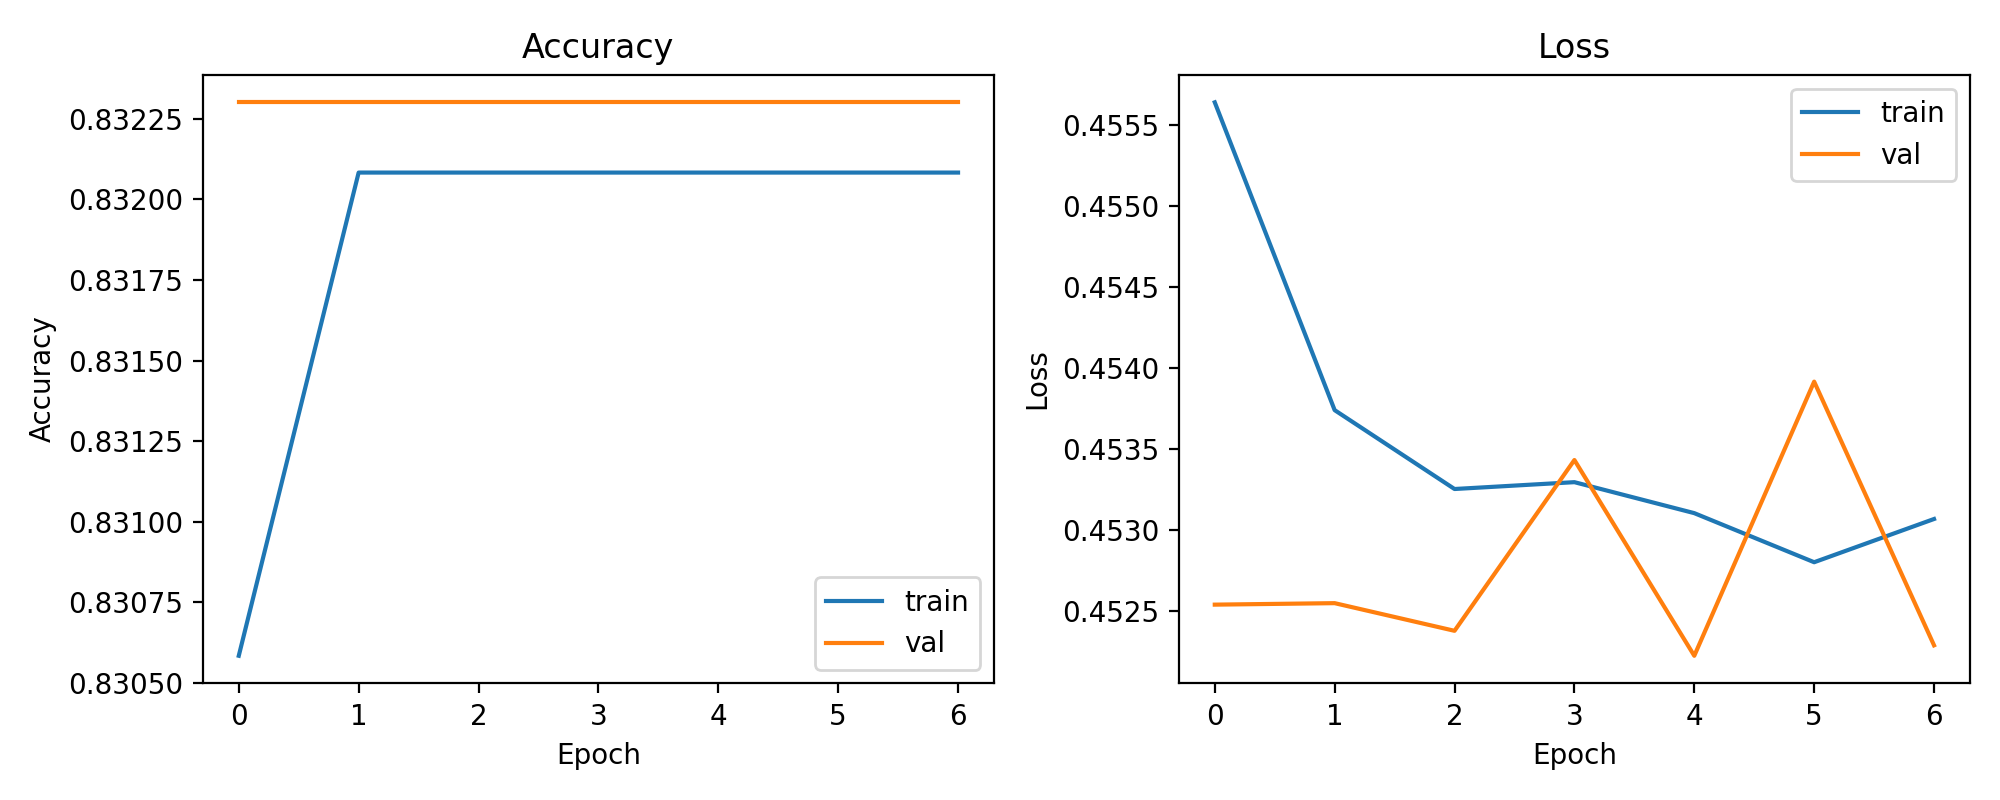
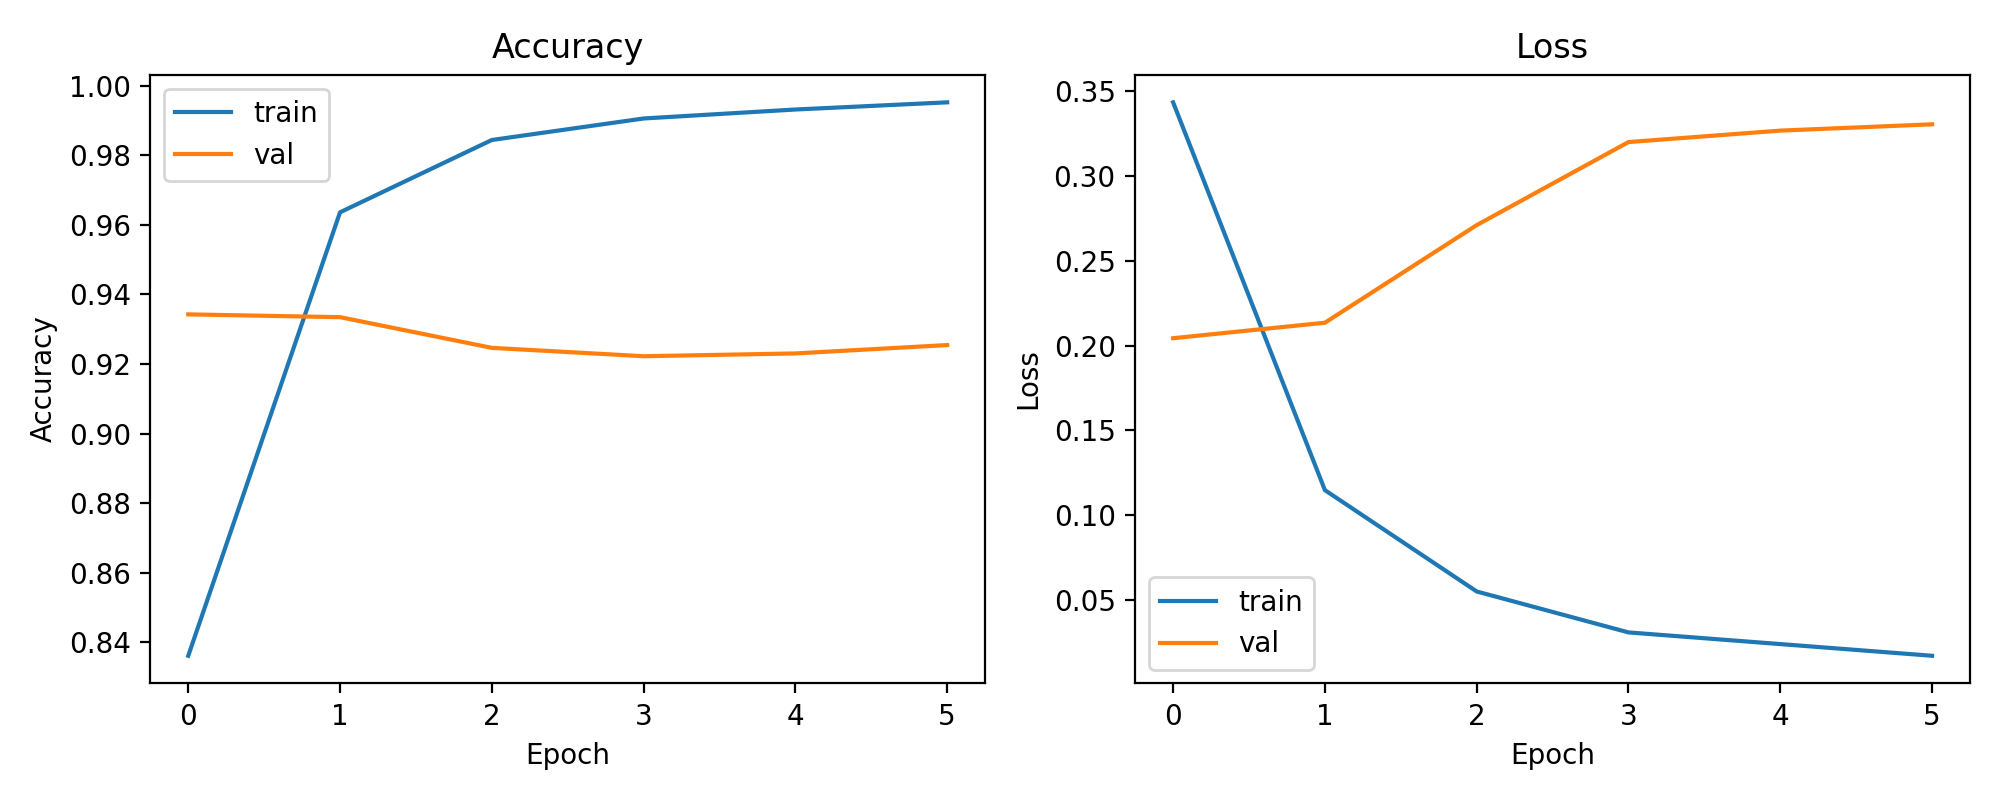
Improve model: bidirectional LSTM, threshold calibration, renamed test script

diff --git a/scripts/test_predictions.py b/scripts/test_predictions.py
@@ -1,0 +1,83 @@
+"""Interactive hate speech classifier.
+
+Run from the hate-speech-project/ directory:
+    python3 scripts/test_predictions.py
+
+Type a sentence and press Enter to classify it.
+Type 'quit' or 'exit' to stop.
+"""
+
+import json
+import re
+from pathlib import Path
+
+from tensorflow.keras.models import load_model
+from tensorflow.keras.preprocessing.sequence import pad_sequences
+from tensorflow.keras.preprocessing.text import tokenizer_from_json
+
+PROJECT_ROOT = Path(__file__).resolve().parents[1]
+MODEL_PATH = PROJECT_ROOT / "models" / "hate_speech_lstm.keras"
+TOKENIZER_PATH = PROJECT_ROOT / "models" / "hate_speech_tokenizer.json"
+THRESHOLD_PATH = PROJECT_ROOT / "models" / "optimal_threshold.json"
+
+MAX_LENGTH = 100
+
+
+def clean_text(text: str) -> str:
+    text = text.lower()
+    text = re.sub(r"http\S+|www\S+", "", text)
+    text = re.sub(r"@\w+", "", text)
+    text = re.sub(r"#\w+", "", text)
+    text = re.sub(r"[^a-z\s]", " ", text)
+    return re.sub(r"\s+", " ", text).strip()
+
+
+def load_threshold(path: Path) -> float:
+    if path.exists():
+        return float(json.loads(path.read_text(encoding="utf-8"))["optimal_threshold"])
+    return 0.5
+
+
+def main() -> None:
+    print("Loading model...")
+    model = load_model(MODEL_PATH)
+    tokenizer = tokenizer_from_json(TOKENIZER_PATH.read_text(encoding="utf-8"))
+    threshold = load_threshold(THRESHOLD_PATH)
+    print(f"Model ready. Decision threshold: {threshold:.4f}")
+    print("=" * 50)
+    print("Type a sentence to classify. Type 'quit' to exit.")
+    print("=" * 50)
+
+    while True:
+        try:
+            text = input("\nEnter text: ").strip()
+        except (EOFError, KeyboardInterrupt):
+            print("\nExiting.")
+            break
+
+        if not text:
+            continue
+
+        if text.lower() in {"quit", "exit", "q"}:
+            print("Exiting.")
+            break
+
+        cleaned = clean_text(text)
+        if not cleaned:
+            print("Could not process that input (no recognisable words).")
+            continue
+
+        seq = tokenizer.texts_to_sequences([cleaned])
+        x = pad_sequences(seq, maxlen=MAX_LENGTH, padding="post", truncating="post")
+        prob = float(model.predict(x, verbose=0)[0][0])
+
+        label = "TOXIC" if prob >= threshold else "NEUTRAL"
+        bar_len = int(prob * 20)
+        bar = "█" * bar_len + "░" * (20 - bar_len)
+
+        print(f"  Result    : {label}")
+        print(f"  Confidence: [{bar}] {prob:.3f}")
+
+
+if __name__ == "__main__":
+    main()

diff --git a/scripts/train_model.py b/scripts/train_model.py
@@ -2,10 +2,13 @@ import json
 from pathlib import Path
 
 import matplotlib.pyplot as plt
+import numpy as np
 import pandas as pd
+from sklearn.metrics import f1_score, precision_recall_curve
 from tensorflow.keras.callbacks import EarlyStopping
-from tensorflow.keras.layers import Dense, Embedding, LSTM
+from tensorflow.keras.layers import Bidirectional, Dense, Embedding, LSTM, SpatialDropout1D
 from tensorflow.keras.models import Sequential
+from tensorflow.keras.optimizers import Adam
 from tensorflow.keras.preprocessing.sequence import pad_sequences
 from tensorflow.keras.preprocessing.text import Tokenizer
 
@@ -20,13 +23,14 @@ VAL_PATH = DATA_DIR / "val.csv"
 MODEL_PATH = MODEL_DIR / "hate_speech_lstm.keras"
 TOKENIZER_PATH = MODEL_DIR / "hate_speech_tokenizer.json"
 CURVE_PATH = FIGURES_DIR / "training_curves.png"
+THRESHOLD_PATH = MODEL_DIR / "optimal_threshold.json"
 
 VOCAB_SIZE = 20000
 MAX_LENGTH = 100
 EMBEDDING_DIM = 128
 LSTM_UNITS = 64
 BATCH_SIZE = 32
-EPOCHS = 8
+EPOCHS = 30
 
 
 def load_split(path: Path) -> pd.DataFrame:
@@ -39,16 +43,40 @@ def build_tokenizer(texts):
     return tokenizer
 
 
+def calibrate_threshold(model, x_val, y_val) -> float:
+    """Find the decision threshold that maximises macro-F1 on the validation set.
+
+    We sweep every candidate threshold returned by precision_recall_curve so the
+    search is exact (no grid step needed) and guaranteed to include the optimum.
+    """
+    val_probs = model.predict(x_val, verbose=0).ravel()
+    precisions, recalls, thresholds = precision_recall_curve(y_val, val_probs)
+
+    # thresholds has one fewer element than precisions/recalls — align them
+    best_threshold = 0.5
+    best_f1 = 0.0
+    for threshold in thresholds:
+        preds = (val_probs >= threshold).astype(int)
+        score = f1_score(y_val, preds, average="macro", zero_division=0)
+        if score > best_f1:
+            best_f1 = score
+            best_threshold = float(threshold)
+
+    return best_threshold
+
+
 def build_model() -> Sequential:
     model = Sequential(
         [
             Embedding(VOCAB_SIZE, EMBEDDING_DIM, input_length=MAX_LENGTH),
-            LSTM(LSTM_UNITS),
+            SpatialDropout1D(0.2),          # drops entire feature maps, safe on CPU
+            Bidirectional(LSTM(LSTM_UNITS, return_sequences=False)),
+            Dense(32, activation="relu"),
             Dense(1, activation="sigmoid"),
         ]
     )
     model.compile(
-        optimizer="adam",
+        optimizer=Adam(learning_rate=1e-3),
         loss="binary_crossentropy",
         metrics=["accuracy"],
     )
@@ -98,7 +126,7 @@ def main() -> None:
     y_val = val_df["label"].astype(int).values
 
     model = build_model()
-    early_stopping = EarlyStopping(monitor="val_loss", patience=2, restore_best_weights=True)
+    early_stopping = EarlyStopping(monitor="val_loss", patience=5, restore_best_weights=True)
 
     history = model.fit(
         x_train,
@@ -117,6 +145,12 @@ def main() -> None:
 
     save_training_curves(history)
 
+    # Calibrate decision threshold on the validation set
+    optimal_threshold = calibrate_threshold(model, x_val, y_val)
+    THRESHOLD_PATH.write_text(
+        json.dumps({"optimal_threshold": optimal_threshold}, indent=2), encoding="utf-8"
+    )
+
     summary = {
         "vocab_size": VOCAB_SIZE,
         "max_length": MAX_LENGTH,
@@ -127,6 +161,8 @@ def main() -> None:
         "model_path": str(MODEL_PATH),
         "tokenizer_path": str(TOKENIZER_PATH),
         "curve_path": str(CURVE_PATH),
+        "optimal_threshold": optimal_threshold,
+        "threshold_path": str(THRESHOLD_PATH),
         "final_train_accuracy": float(history.history["accuracy"][-1]),
         "final_val_accuracy": float(history.history["val_accuracy"][-1]),
     }

diff --git a/scripts/evaluate_model.py b/scripts/evaluate_model.py
@@ -19,6 +19,7 @@ MODEL_PATH = MODEL_DIR / "hate_speech_lstm.keras"
 TOKENIZER_PATH = MODEL_DIR / "hate_speech_tokenizer.json"
 REPORT_PATH = MODEL_DIR / "evaluation_report.json"
 CONFUSION_MATRIX_PATH = FIGURES_DIR / "confusion_matrix.png"
+THRESHOLD_PATH = MODEL_DIR / "optimal_threshold.json"
 
 MAX_LENGTH = 100
 
@@ -26,6 +27,18 @@ MAX_LENGTH = 100
 def load_tokenizer(path: Path):
     tokenizer_json = path.read_text(encoding="utf-8")
     return tokenizer_from_json(tokenizer_json)
+
+
+def load_threshold(path: Path) -> float:
+    """Load the optimal decision threshold saved by train_model.py.
+
+    Falls back to 0.5 if the file does not exist (e.g., when running against
+    a model trained before this fix was applied).
+    """
+    if path.exists():
+        data = json.loads(path.read_text(encoding="utf-8"))
+        return float(data["optimal_threshold"])
+    return 0.5
 
 
 def plot_confusion_matrix(matrix):
@@ -62,13 +75,14 @@ def main() -> None:
     test_df = pd.read_csv(TEST_PATH)
     model = load_model(MODEL_PATH)
     tokenizer = load_tokenizer(TOKENIZER_PATH)
+    optimal_threshold = load_threshold(THRESHOLD_PATH)
 
     sequences = tokenizer.texts_to_sequences(test_df["clean_text"].astype(str).tolist())
     x_test = pad_sequences(sequences, maxlen=MAX_LENGTH, padding="post", truncating="post")
     y_true = test_df["label"].astype(int).values
 
     probabilities = model.predict(x_test, verbose=0).ravel()
-    y_pred = (probabilities >= 0.5).astype(int)
+    y_pred = (probabilities >= optimal_threshold).astype(int)
 
     report = classification_report(y_true, y_pred, output_dict=True)
     matrix = confusion_matrix(y_true, y_pred)
@@ -78,6 +92,7 @@ def main() -> None:
     summary = {
         "model_path": str(MODEL_PATH),
         "tokenizer_path": str(TOKENIZER_PATH),
+        "optimal_threshold": optimal_threshold,
         "test_rows": int(len(test_df)),
         "confusion_matrix_path": str(CONFUSION_MATRIX_PATH),
         "classification_report": report,